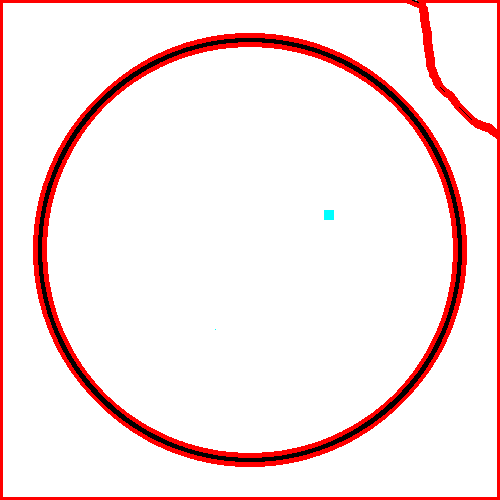
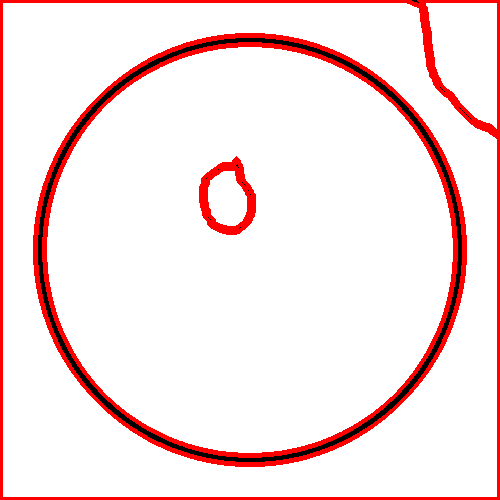
Algoritmo selezione

Changed region(s): [[0.39, 0.3, 0.51, 0.48], [0.63, 0.42, 0.69, 0.45]]

diff --git a/5_Applicativo/testCont.py b/5_Applicativo/testCont.py
@@ -22,7 +22,8 @@ from kivy.config import Config
 
 imageWidth = 0
 img = 0
-BORDO = 10
+BORDI = -1
+GERARCHIA = -2
 
 class ConterGUI(BoxLayout):
     pass 
@@ -34,7 +35,7 @@ class ConterGUI(BoxLayout):
         y = math.trunc(touch.pos[1])
 
         screenDim = self.ids.image.size
-        imageDim = self.ids.image.norm_image_size
+        self.imageDim = self.ids.image.norm_image_size
 
         
 
@@ -46,36 +47,75 @@ class ConterGUI(BoxLayout):
             y = screenDim[1]/2 + d
         
         print("pos", touch.pos)
-        print("img", imageDim)
+        print("img", self.imageDim)
         print("dim", screenDim, "\n")
         
-        pxY = int(y-(screenDim[1] - imageDim[1])/2)
-        pxX = int(x-(screenDim[0] - imageDim[0])/2)
+        pxY = int(y-(screenDim[1] - self.imageDim[1])/2)
+        pxX = int(x-(screenDim[0] - self.imageDim[0])/2)
         print("X --> ", pxX)
-        #print(BORDO)
-        if(self.isInArea(pxX,pxY,imageDim)):
+        #print(BORDI)
+        if(self.isInArea(pxX,pxY)):
             
             print("cpos",pxX, pxY, "????????????????????")
             img[pxX,pxY] = [255,255,0]
             x = pxX - 5
             y = pxY - 5
-            while(x < pxX + 5):
+            """while(x < pxX + 5):
                 while(y < pxY + 5):
-                    img[y, x] = [255,255,0]
+                    if(self.isInArea(y,x, imageDim)):
+                        img[y, x] = [255,255,0]
                     y+=1                
                 x += 1
-                y = pxY - 5
-            print("Pura curiosità ", BORDO[4][1][0][1]) #[bordo][pixel][0--> evitare il valore strano][coordinata]
-            #self.highlightArea(img, pxX, pxY, imageDim)
+                y = pxY - 5"""
+            print("Pura curiosità ", BORDI[4][1][0][1]) #[bordo][pixel][0--> evitare il valore strano][coordinata]
+            #print("atisoiruc aruP ", "\n",GERARCHIA)
+            self.highlightArea(img, pxX, pxY)
             #path = "./pictures/provaEdo.png"
             cv2.imwrite(path, img)
             self.ids.image.source = path
             self.ids.image.reload()
 
-    def highlightArea(self, img, x, y, imageDim):
-        
-        if(self.isInArea(x,y,imageDim)):
-            img[y, x] = [255,255,0]
+    def highlightArea(self, img, x, y):
+        if(self.isInArea(x, y)):
+            popList = []
+            img[y, x] = [0,255,0]
+            if(self.isInArea(x + 1,y)):
+                pixel = [x + 1, y, False]
+                popList.append(pixel)
+            if(self.isInArea(x - 1,y)):
+                pixel = [x - 1, y, False]
+                popList.append(pixel)
+            if(self.isInArea(x,y + 1)):
+                pixel = [x, y + 1, False]
+                popList.append(pixel)
+            if(self.isInArea(x,y - 1)):
+                pixel = [x, y - 1, False]
+                popList.append(pixel) 
+            while(False in popList):
+                if(self.isInArea(x + 1,y)):
+                    pixel = [x + 1, y, False]
+                    popList.append(pixel)
+                if(self.isInArea(x - 1,y)):
+                    pixel = [x - 1, y, False]
+                    popList.append(pixel)
+                if(self.isInArea(x,y + 1)):
+                    pixel = [x, y + 1, False]
+                    popList.append(pixel)
+                if(self.isInArea(x,y - 1)):
+                    pixel = [x, y - 1, False]
+                    popList.append(pixel) 
+
+        """if(self.isInArea(x,y) and  not self.isHighlightedPixel(x,y, img)):
+            img[y, x] = [0,255,0]
+            if(self.isInArea(x + 1,y)):
+                self.highlightArea(img, x + 1, y)
+            if(self.isInArea(x - 1,y)):
+                self.highlightArea(img, x - 1, y)
+            if(self.isInArea(x,y + 1)):
+                self.highlightArea(img, x, y + 1)
+            if(self.isInArea(x,y - 1)):
+                self.highlightArea(img, x, y - 1)
+
             if(self.isInBorder(x + 1, y)):
                 self.highlightArea(img, x + 1, y, imageDim)
             if(self.isInBorder(x - 1, y)):
@@ -83,29 +123,51 @@ class ConterGUI(BoxLayout):
             if(self.isInBorder(x, y + 1)):
                 self.highlightArea(img, x, y + 1, imageDim)
             if(self.isInBorder(x, y - 1)):
-                self.highlightArea(img, x, y - 1, imageDim)
-        
-        """while(x < 10):
-            while(y < 10):
-                img[y, x] = [255,255,0]
-                y+=1                
-            x += 1
-            y = 0"""
-    
+                self.highlightArea(img, x, y - 1, imageDim)"""
+
+    def popNewPixels(self, x, y):
+        if(self.isInArea(x + 1,y)):
+            pixel = [x + 1, y]
+            popList.append(pixel)
+            popCheckList.append(False)
+        if(self.isInArea(x - 1,y)):
+            pixel = [x - 1, y]
+            popList.append(pixel)
+            popCheckList.append(False)
+        if(self.isInArea(x,y + 1)):
+            pixel = [x, y + 1]
+            popList.append(pixel)
+            popCheckList.append(False)
+        if(self.isInArea(x,y - 1)):
+            pixel = [x, y - 1]
+            popList.append(pixel) 
+            popCheckList.append(False)
+    def isHighlightedPixel(self, x, y, img):
+        test = np.array([0,255,0])
+        isEqual = True
+        for key, bgr in enumerate(img[y,x]):
+            if(isEqual):
+                if(not (bgr == test[key])):
+                    isEqual = False
+        return isEqual
+
     def isInBorder(self, x, y):
-        for bor in BORDO:
-            for cell in b:
-                if(BORDO[bor][cell][0] == x and BORDO[i, j, 1] == y):
+        #[bordo][pixel][0--> evitare il valore strano][coordinata]
+        for bordo in BORDI:
+            for pixel in bordo:
+                if(pixel[0][0] == x  and pixel[0][1] == y):
                     return False
         return True
 
-    def isInArea(self, x, y, imageDim):
+    def isInArea(self, x, y):
         #print(x > 0, "x > 0")
         #print(y > 0, "y > 0")
         #print(x < imageDim[0], "x < 500 | x = ", x)
         #print(y < imageDim[1], "y < 500", "\n")
-        if(x > 0 and y > 0 and x < imageDim[0] and y < imageDim[1]):
+        if(x > 0 and y > 0 and x < self.imageDim[0] and y < self.imageDim[1]):
+            print(f'x: {x}, y: {y}, w: {self.imageDim[0]}, h: {self.imageDim[1]}, in: True')
             return True
+        print(f'x: {x}, y: {y}, w: {self.imageDim[0]}, h: {self.imageDim[1]}, in: False')
         return False
         
 class ConterApp(App):
@@ -116,7 +178,8 @@ class ConterApp(App):
         return self.gui
 
     def build_image(self):
-        global BORDO
+        global BORDI
+        global GERARCHIA
         img = cv2.imread(self.path)
 
         gray = cv2.cvtColor(img, cv2.COLOR_BGR2GRAY)
@@ -125,7 +188,8 @@ class ConterApp(App):
 
         contours,hierarchy = cv2.findContours(thresh, cv2.RETR_TREE,cv2.CHAIN_APPROX_SIMPLE)
         print("Number of contours in image:",len(contours))
-        BORDO = contours
+        BORDI = contours
+        GERARCHIA = hierarchy
         for cnt in contours:
             area = cv2.contourArea(cnt)
             perimeter = cv2.arcLength(cnt, True)
